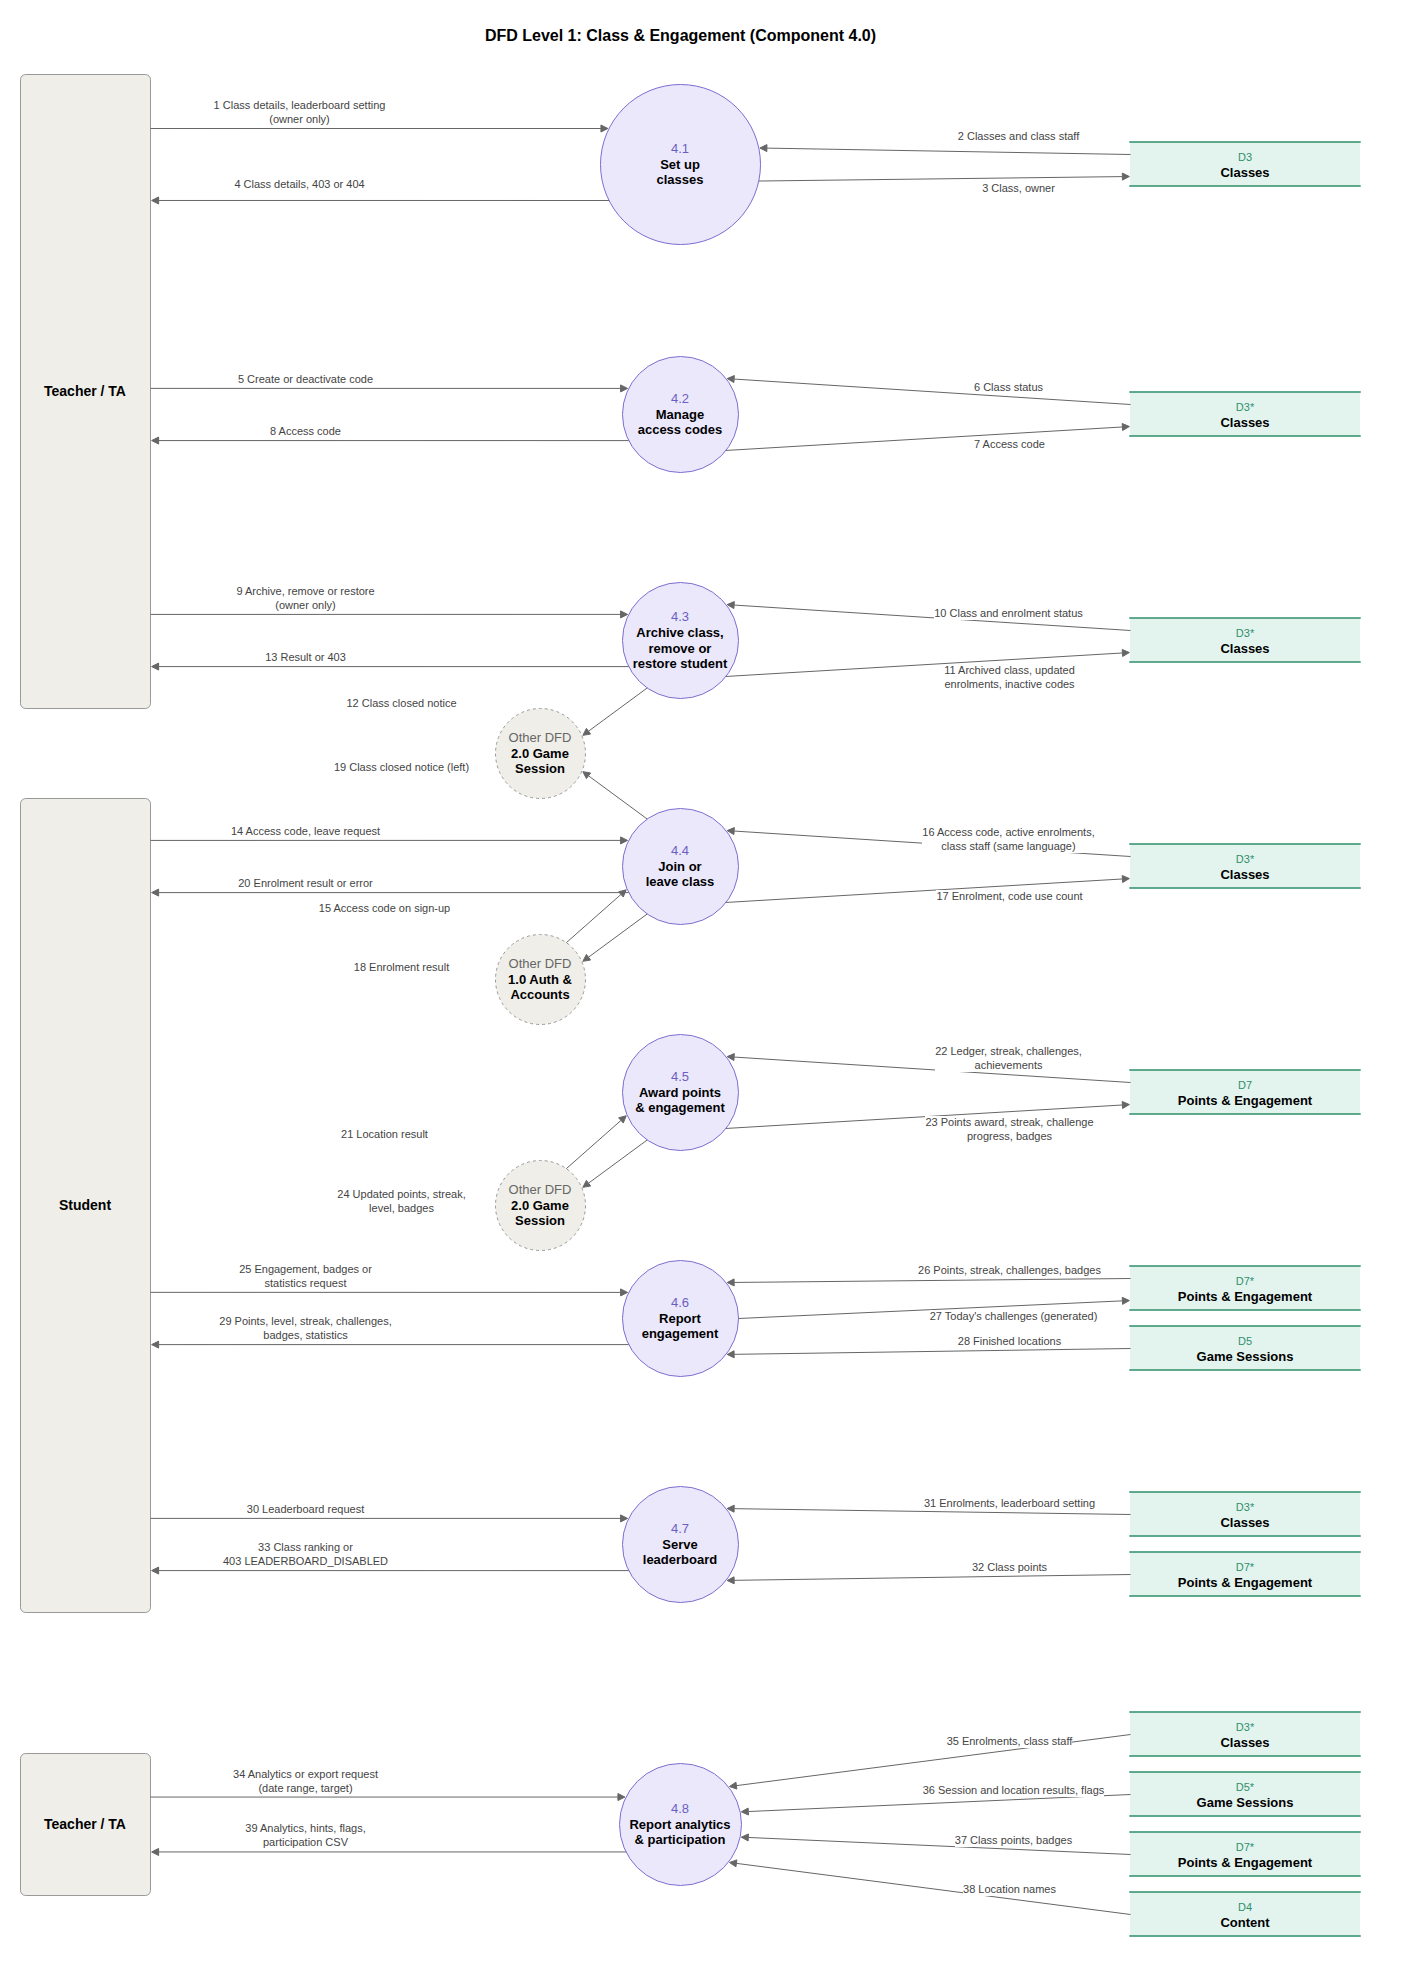
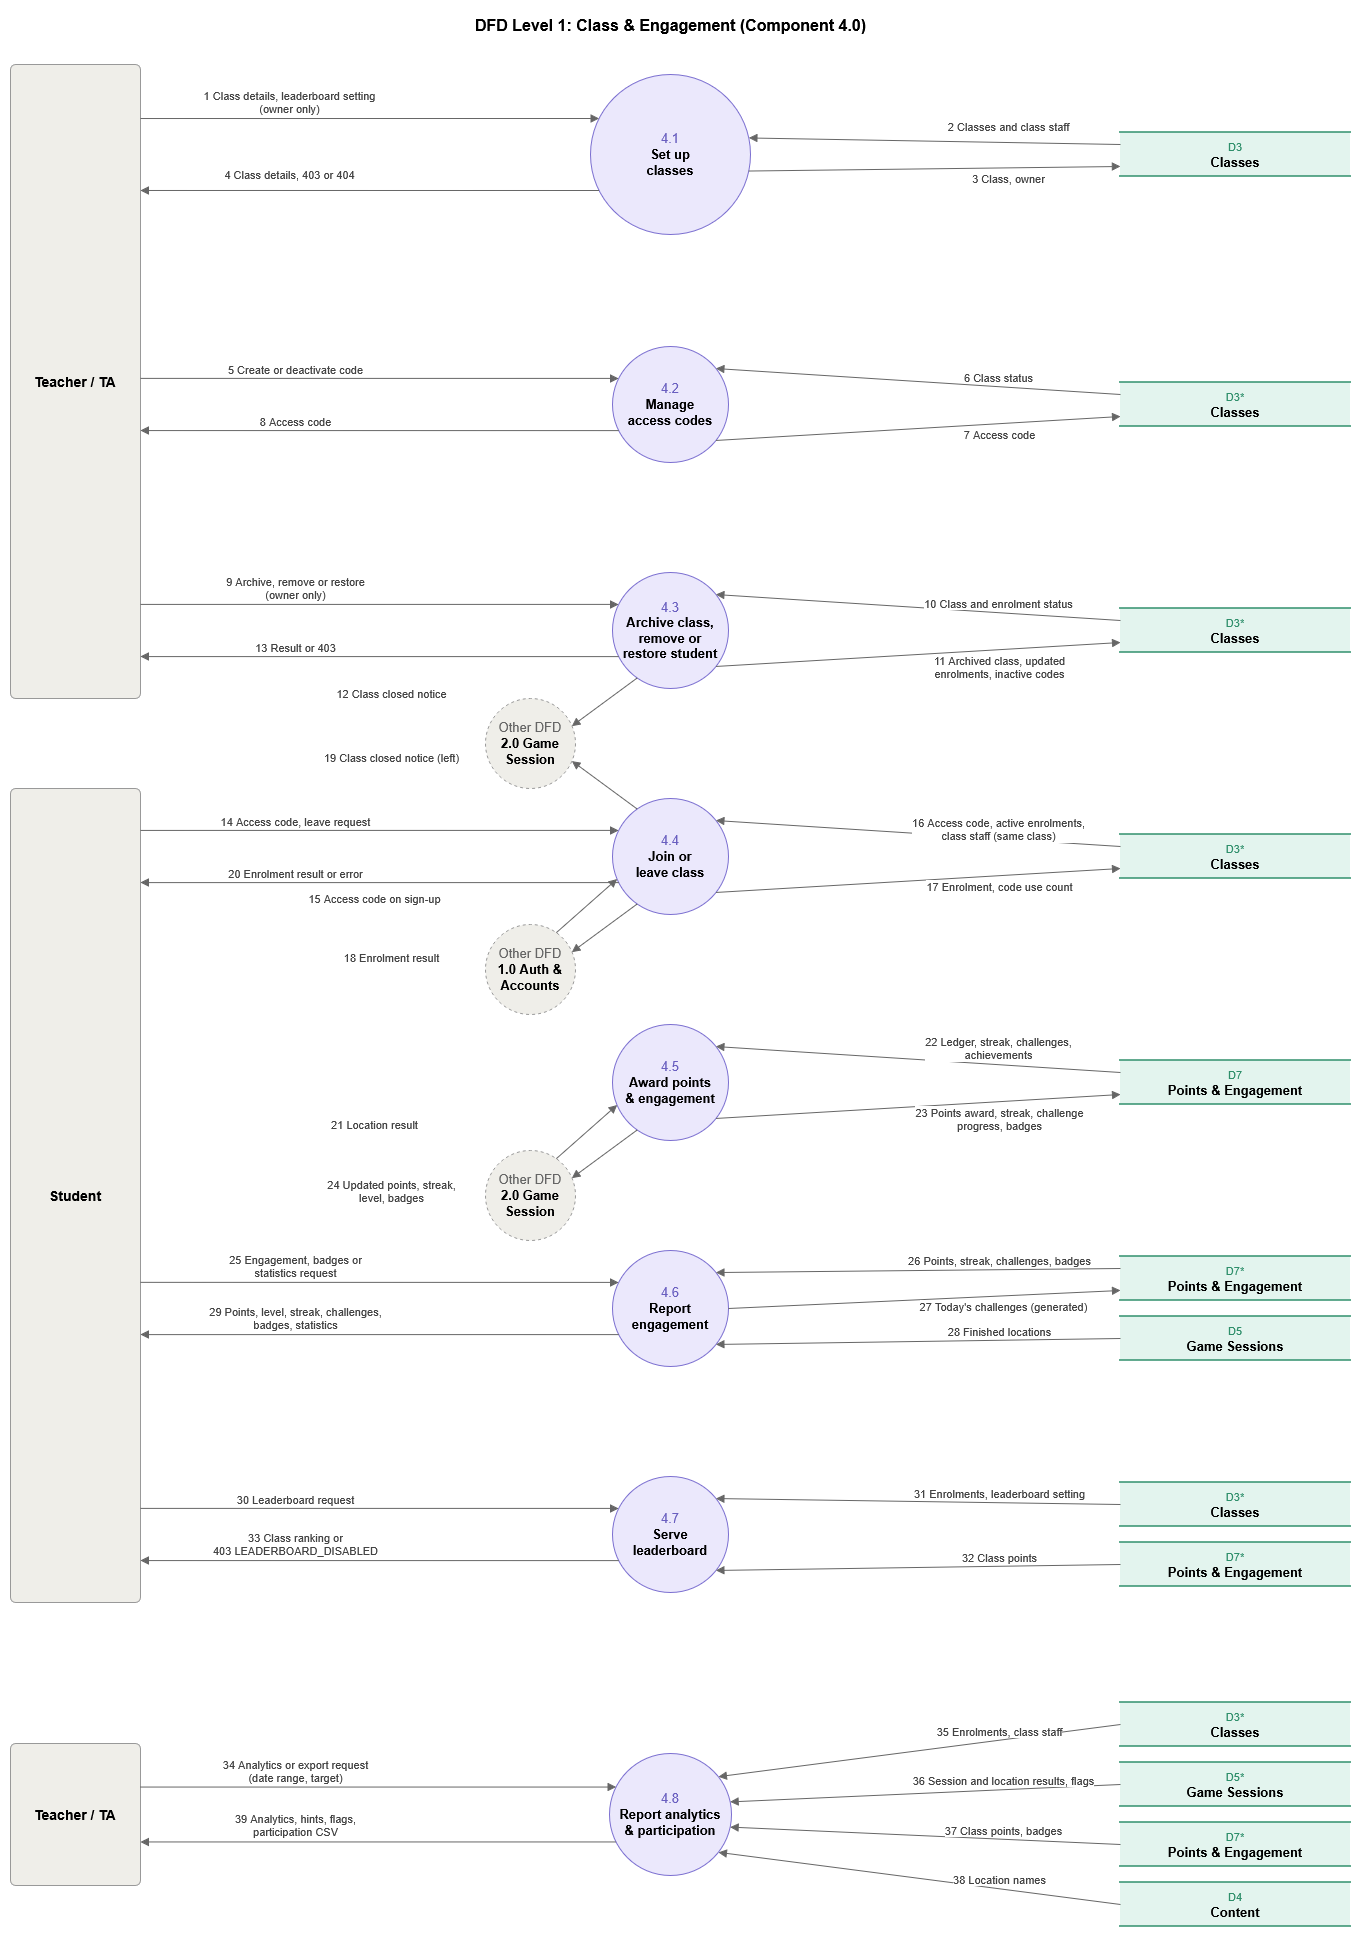
docs: add week 5 team log (#173)

diff --git a/logs/team/week-5.md b/logs/team/week-5.md
@@ -1,0 +1,68 @@
+# Week 5 Team Log (Oct 5 – Oct 11)
+
+Author: Eddy Tian
+
+This week, we decided to focus on the shared database schema and the component interfaces that the team agreed to finish by Oct 11 and 12. The goal was for every member to build their Milestone 1 features against merged tables and interfaces, without waiting on each other's code.
+
+The work was distributed so that:
+- **Mia** focused on the core schema: users, classes and class staff (#150), and access codes and enrolments (#151). She also built the `game_sessions` and `session_locations` tables (#154, #161), the shared error format and handlers (#158), and the shared test fixtures (#157). On the game side, she added `end_open_sessions`, which ends a student's open games when a class is archived or the student leaves (#165, built on her `session_locations` table). She also automated PR metadata (#153), and moved Kaedyn's week 4 log from #139 onto `weekly-logs` (#159).
+- **Eddy** focused on the content interfaces for game: content eligibility and snapshot (#149), and media URLs for clue and feedback audio (#162, #163). I also did the follow-ups from the OCR spike review (#148).
+- **Kaedyn** focused on accounts: the current user and permission checks other components call (#152), and the first feature endpoint, student registration (A1, `POST /api/v1/auth/register`, #167). Registration checks the email, username and password rules (422 `VALIDATION_ERROR`), rejects taken usernames and emails (409), and stores the password as a bcrypt hash (cost 12, per the spec). Kaedyn later moved the route into its own auth router under `/api/v1` and removed the registration functions from `accounts/interface.py`, since only the router calls them.
+- **Fabiha** focused on the engagement interface: the class and enrolment lookups (#155) and the access code check with enrolment (#156).
+
+We considered having each owner write the tables for their own area. We gave the core tables to one person because almost every component reads `users`, `classes` and enrolments, and one author kept the constraints and naming consistent.
+
+Based on the 17 merged PRs (#148–#159, #161–#163, #165 and #167), we met this goal because every interface due Oct 11 and 12 is merged:
+- accounts: current user and permissions (#152),
+- engagement: class and enrolment lookups and the access code check (#155, #156),
+- content: eligibility, snapshot and media URLs (#149, #162, #163),
+- game: ending open games when a class closes (#165).
+
+The core schema, shared errors and shared test fixtures they depend on are also merged. Registration (#167) also shows that a full feature can now be built end to end on this foundation, from a request, through the accounts component and the shared error format, to the `users` table.
+
+The team collectively did the following to keep the code base free of repeated logic and tangled dependencies:
+- **Shared test fixtures (#157):** Mia found that the core schema tests built their own users, classes and enrolments in every test, so she added shared factories (`make_user`, `make_class`, `make_class_staff`, `make_access_code`, `make_enrollment`) to `conftest.py`. #154, #161 and #165 use them.
+- **Shared error format (#158):** Without a shared format, each router would build its own error responses. Mia added one `AppError` with an `ErrorCode` → HTTP status table in `app/errors.py`, with handlers in `app/main.py`. She added `errors` to the shared core in `utils/dep_graph.py`, so every component can raise it without importing another component. #162, #163 and #167 already raise their errors through it.
+- **Ending games when a class closes (#165):** Game already calls engagement for class and enrolment lookups, so engagement calling `end_open_sessions` would create a cycle that `dep_graph.py --check` rejects. Instead, the route calls engagement and then game in the same transaction, as the spec's session lifecycle describes.
+- **Owner index (#150):** In review, the "one owner per class" index used a hard-coded role string, so renaming the role would have needed a second edit. It is now built from the `ClassStaffRole` enum.
+- **Schema checks in CI (#151):** CI now runs `alembic check` and a downgrade/upgrade round trip, so the models and migrations cannot drift apart.
+
+Now, the team can confirm that the code base does not contain any of the following:
+- similar logic implemented multiple times
+- many dependencies between modules
+- changes in one component require changes elsewhere
+
+With everyone's newly merged work for this week, the system DFD looks like the updated Level 1 diagrams below. The specific changes follow the TA rule change: a user can no longer be a student and a TA of the same class, where before it was the same language. #158 renamed the error code to `TA_SAME_CLASS_CONFLICT` to match. In 1.10 Manage teaching assistants, flow 54 now reads enrolments in the same class instead of the same language, and flows 57 and 59 return `TA_SAME_CLASS_CONFLICT`. In 4.4 Join or leave class, flow 16 now reads class staff of the same class.
+
+The other merged PRs fill in processes and flows that were already drawn:
+- 1.1 Register account now writes D1 Users & Auth (#167).
+- The class-closed flow from 4.3 Archive and 4.4 Leave to 2.5 Control session is now `end_open_sessions`, which updates D5 Game Sessions (#165).
+- 2.1 Start session now reads eligible locations and snapshots from D4 Content (#149).
+
+We considered three alternative data flows:
+- **Content chooses the 5 locations itself.** We kept the picking in 2.1, because game owns carry-over, shuffle exclusions and `NOT_ENOUGH_CONTENT`. Content only answers which locations qualify.
+- **Game reads D4 Content live during play.** We chose to copy a snapshot into D5 when a location is drawn, so a content manager's edit never changes a game in progress.
+- **Engagement sends the class-closed notice to game directly.** We had the route make both calls, to avoid the cycle described above.
+
+With everyone's newly merged work for this week, the system architecture diagram has one change: `app/errors` joins config, db, models and services in the shared core box (#158), since every component now raises `AppError` from it. Registration (#167) fits the existing AuthService in the 1.0 box, so it needs no change. We considered letting routers raise FastAPI's `HTTPException` directly, but the services and interfaces would then depend on the web layer, and each router would repeat the status mapping. We considered two alternative dependencies:
+- **Our own model-to-migration comparison:** we used Alembic's built-in `alembic check` in CI instead.
+- **passlib for password hashing:** the spec lists it, but #167 calls `bcrypt` directly because passlib is no longer maintained and does not work cleanly with current bcrypt releases.
+
+We changed our collaboration process so that a GitHub Action (#153) fills in each PR's assignee, reviewers (following the review cycle in our team contract), labels and milestone. We also made the AI section of the PR template optional for PRs without AI-generated code. The reason we did this is that these fields were often missed when filled in by hand, which made the board harder to track. We considered checking them manually at our Monday meeting, but that only caught problems after review had already started. 
+
+## Diagrams
+
+Source files (draw.io) are in our [Drive folder](https://drive.google.com/drive/folders/1nHJDhfVOvWCLNEbqzlOMssgTrlTugm7J?usp=sharing).
+
+### System architecture
+![System architecture](img/system_architecture.png)
+
+### DFD Level 0
+![DFD Level 0](img/dfd_level0_context.png)
+
+### DFD Level 1
+![1.0 Auth & Accounts](img/dfd_level1_auth_accounts.png)
+![2.0 Game Session](img/dfd_level1_game_session.png)
+![3.0 Photo Verification](img/dfd_level1_photo_verification.png)
+![4.0 Class & Engagement](img/dfd_level1_class_engagement.png)
+![5.0 Content Management](img/dfd_level1_content_management.png)
